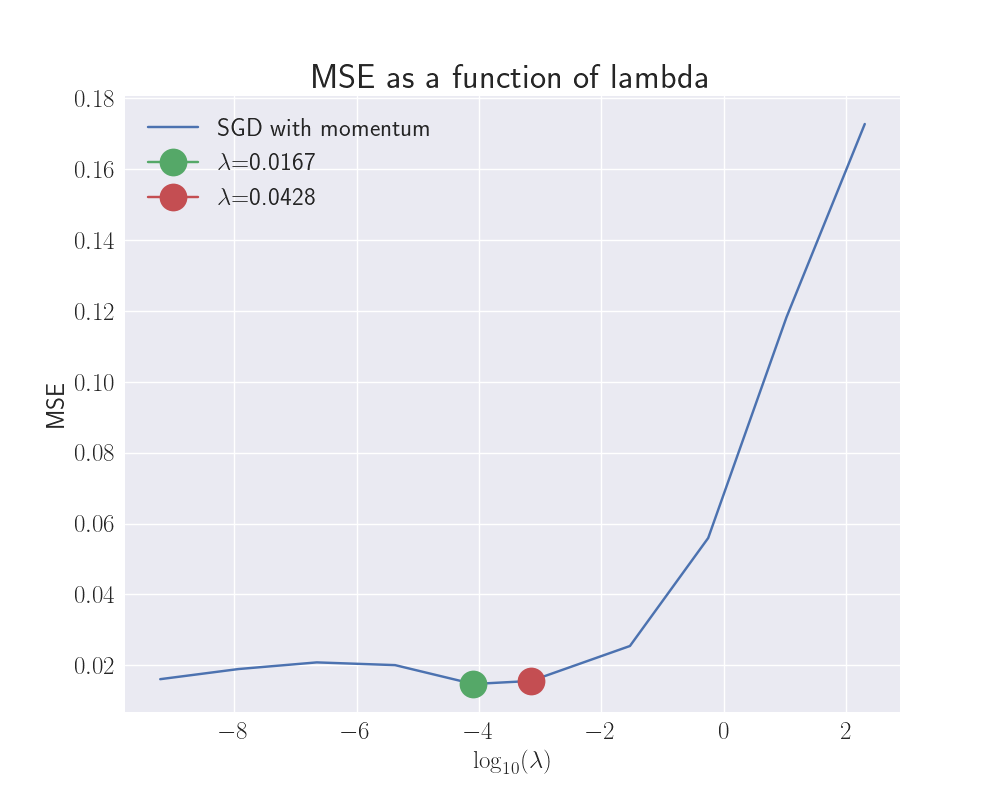
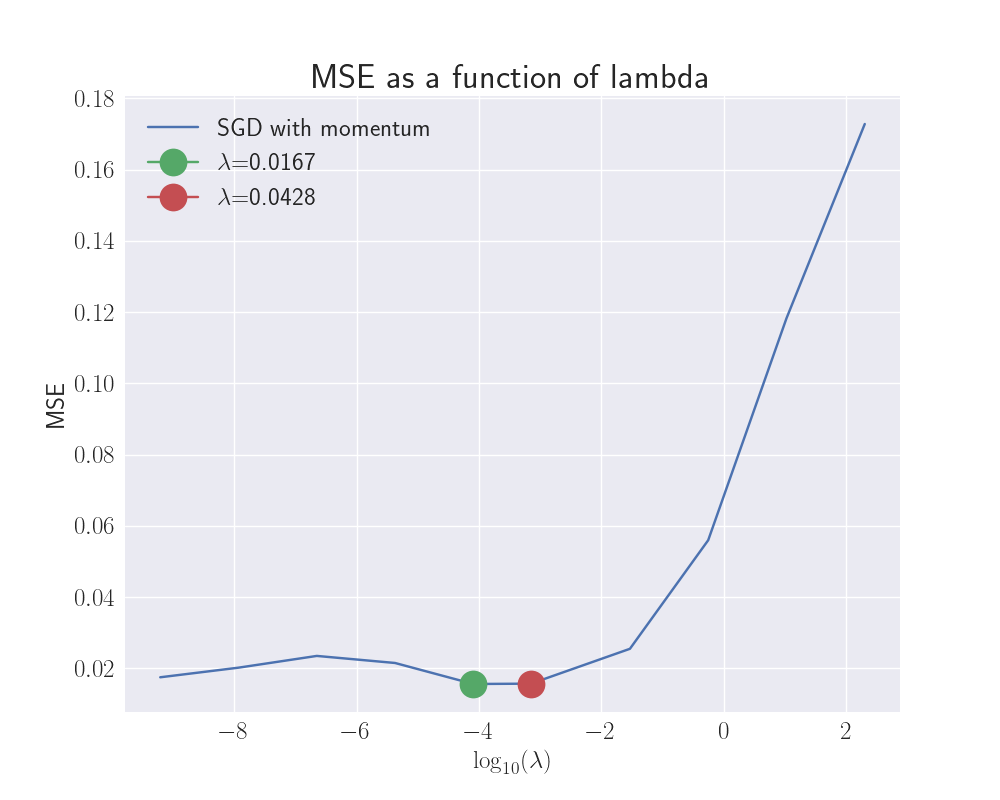
Nå ska MSE være riktig

diff --git a/Project2/Code/main_GD.py b/Project2/Code/main_GD.py
@@ -6,15 +6,12 @@ from matplotlib import cm
 from matplotlib.ticker import LinearLocator, FormatStrFormatter
 from mpl_toolkits.mplot3d import Axes3D
 from sklearn.preprocessing import StandardScaler
-
 from methods_GD import OLS, Ridge
 from common import (FrankeFunction, create_X, scale)
 from plots import model_terrain, MSE_lamb
 
-
 def main_1():
     np.random.seed(2018) # Generate random values from seed.
-
     N = 10 # Number of datapoints. 10
     polydegree = 5 # Degree for polynomial.
     x = np.linspace(0, 1, N)
@@ -27,17 +24,17 @@ def main_1():
     X = scale(X) # Scale our matrix.
 
     n_epochs = 1000 # Number of epochs. 10000
-    M = 10   # Size of each minibatch (10 gave good results)
-    t0, t1 = 0.5, 100 # Paramters used in learning rate. # 50
+    M = 10 # Size of each minibatch (10 gave good results)
+    t0 = 0.5 # Paramters used in learning rate. # 50
+    t1 = 1/(0.01*t0) # This is the definition also used in the scikit SGD method.
     gamma = 0.9 # Paramter used in momentum SGD.
     tol_1 = 0.0001 # Tolerance for sum between analytical and numerical gradient.
-    tol_2 = 0.01 # Tolarance used for calculating the gradient.
+    tol_2 = 0.1 # Tolerance used for calculating the gradient.
     v = 0 # Initial velocity for stochastic gradient descent with momentum.
     m = int(len(X)/M) # Used when we split into minibatches.
     alph_1= 0.5 # The alph values are used for which transparency to use in plotting of model and data.
     alph_2 = 1.0
-    optimal_lambda = 4.28*10**(-2) # found this in last project.
-
+    optimal_lambda = 4.28*10**(-2) # Found this in last project.
     model = OLS(z, X, m, M, 0, tol_1, tol_2) # Initialize our OLS model.
     # Calculate methods for OLS:
     MSE1_OLS, beta1 = model.SGD(n_epochs, t0, t1, True)
@@ -46,8 +43,7 @@ def main_1():
     model_terrain(X, x, y, beta1, N, 'Stochastic gradient descent for OLS', z_data, alph_2, alph_1)
     model_terrain(X, x, y, beta2, N, 'Stochastic gradient descent with momentum for OLS', z_data, alph_2, alph_1)
     # Compare with scikit: (we only have loss model for OLS).
-    eta0 = 0.001 # When we compare with scikitlearn we use a constant learning rate.
-    model.compare_MSE(n_epochs, t0, eta0)
+    model.compare_MSE(n_epochs, t0, t1, v, gamma)
 
     model = Ridge(z, X, m, M, optimal_lambda, tol_1, tol_2) # Initialize our Ridge model with specific lambda value.
     # This was the optimal lambda value from the last project.
@@ -55,16 +51,14 @@ def main_1():
     MSE1_Ridge, beta1 = model.SGD(n_epochs, t0, t1, True)
     MSE2_Ridge, beta2 = model.GDM(n_epochs, t0, t1, v, gamma, True)
     # Plots for Ridge:
-    model_terrain(X, x, y, beta1, N, 'Stochastic gradient descent for Ridge', z_data, alph_1, alph_2)
+    model_terrain(X, x, y, beta1, N, 'Stochastic gradient descent for Ridge', z_data, alph_2, alph_1)
     model_terrain(X, x, y, beta2, N, 'Stochastic gradient descent with momentum for Ridge', z_data, alph_2, alph_1)
 
     return MSE2_Ridge
 
-
 def main_2(optimal_MSE):
 
     np.random.seed(2018) # Generate random values from seed.
-
     N = 10 # Number of datapoints.
     polydegree = 5 # Degree for polynomial.
     x = np.linspace(0, 1, N)
@@ -77,8 +71,9 @@ def main_2(optimal_MSE):
     X = scale(X) # Scale our matrix.
 
     n_epochs = 1000 # Number of epochs. 10000
-    M = 10   #size of each minibatch (10 gave good results)
-    t0, t1 = 0.5, 100 # Paramters used in learning rate. # 50
+    M = 10 #size of each minibatch (10 gave good results)
+    t0 = 0.5 # Paramters used in learning rate.
+    t1 = 1/(0.01*t0) # This is the definition also used in the scikit SGD method.
     gamma = 0.9 # Paramter used in momentum SGD.
     tol_1 = 0.0001 # Tolerance for sum between analytical and numerical gradient.
     tol_2 = 0.1 # Tolarance used for calculating the gradient.

diff --git a/Project2/Code/methods_GD.py b/Project2/Code/methods_GD.py
@@ -84,26 +84,29 @@ class GradientDecent:
             f.close()
         return mean_squared_error_2, beta
 
-    def compare_MSE(self, n_epochs, t0, eta0):
-        sgdreg = SGDRegressor(loss='squared_loss', max_iter = n_epochs, penalty = None , eta0 = eta0)
+    def compare_MSE(self, n_epochs, t0, t1, v, gamma):
+        sgdreg = SGDRegressor(loss='squared_loss', max_iter = n_epochs, penalty = None , alpha = 1/t0, learning_rate='optimal')
         #sgdreg = SGDRegressor(loss = 'squared_loss', max_iter = n_epochs, penalty=None, alpha = 1/t0, learning_rate='optimal')
-        sgdreg.fit(self.X, self.z.ravel())
-        beta_scikit = sgdreg.coef_
-        z_pred = self.X@beta_scikit
-        MSE_sci = MSE(self.z, z_pred)
+        #sgdreg.fit(self.X, self.z.ravel())
 
         beta = np.random.randn(np.shape(self.X)[1],1) # Generate random initial beta values.
         for epoch in range(n_epochs):
+            self.X_, self.z_ = shuffle(self.X, self.z) # Shuffle the data for each epoch.
             for i in range(self.m):
+                sgdreg.partial_fit(self.X_, self.z_.ravel())
+                self.i = i # Index used when splitting in minibatces.
                 gradients = elementwise_grad(self.cost_func) # Use autograd to calculate the gradient of the cost function.
-                eta = eta0 # Change the learning rate.
+                eta = learning_schedule(epoch*self.m+i,t0,t1) # Change the learning rate.
                 # Stochastic gradient descent:
                 beta = beta - eta * gradients(beta)
-                #if np.linalg.norm(gradients(beta))<0.01: # If less than tolarance we stop our gradient descent.
-                        #break
+                #if np.linalg.norm(gradients(beta))<self.tol_2: # If less than tolarance we stop our gradient descent.
+                    #break
+        beta_scikit = sgdreg.coef_
+        z_pred_sci = self.X@beta_scikit
+        MSE_sci = MSE(self.z, z_pred_sci)
 
         z_pred = self.X@beta # Our model prediction.
-        MSE_own = MSE(self.z, z_pred) # Collect the mean square error.
+        MSE_own = MSE(self.z, z_pred) # Collect the mean squared error.
 
         # Write to file:
         f = open("../Textfiles/MSE_comparison.txt", "w")

diff --git a/Project2/Code/plots.py b/Project2/Code/plots.py
@@ -54,7 +54,6 @@ def MSE_lamb(MSE, lamb, ind, optimal_lambda):
     ax.legend(fontsize=18)
     plt.savefig('../Plots/MSE_function_of_lambda')
 
-
 def plot_surface(X, model, model_name, epochs, n_layers, xx, yy, N):
     z_h, a_h, z_o, a_L = model.feed_forward(X)
     n = int(np.sqrt(X.shape[0]))
@@ -71,8 +70,6 @@ def plot_surface(X, model, model_name, epochs, n_layers, xx, yy, N):
     bbox = fig.bbox_inches.from_bounds(1, 1, 8, 6)
     bbox_inches=bbox
     plt.savefig(f'../Plots/{model_name}_model_N{N}_it{epochs:.1e}_{n_layers}L.png', bbox_inches='tight')
-
-
 
 def accuracy_epoch(n_epochs, test, train, title, fname):
     fig, ax = plt.subplots()
